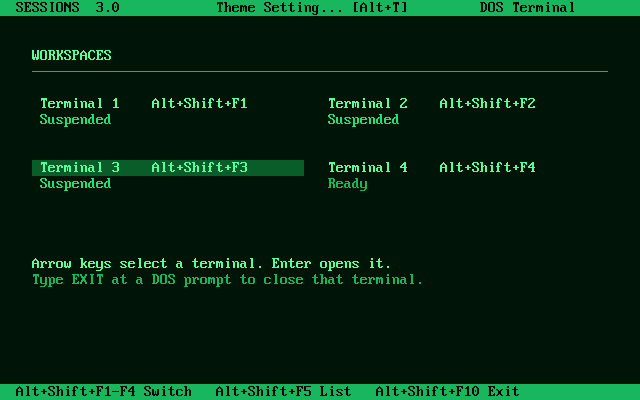
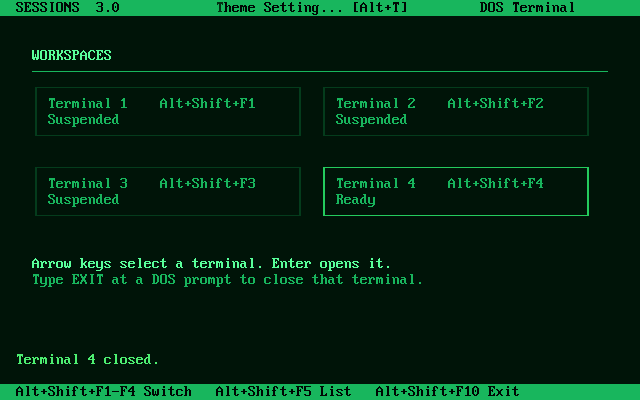
Publish SESSIONS 1.1.3

diff --git a/applications.html b/applications.html
@@ -255,12 +255,12 @@
             <h3>SESSIONS.EXE</h3>
             <p><strong>Four DOS terminals.</strong> Keep four applications open and switch between them with <kbd>Alt+Shift+F1</kbd> through <kbd>F4</kbd>. Each terminal keeps its own directory, command history, and screen. Tab completes file and directory names. Requires XMS.</p>
             <figure>
-              <a href="screenshots/sessions.png"><img src="screenshots/sessions.png" width="640" height="400" loading="lazy" alt="The SESSIONS workspace list shows three suspended programs and a fourth terminal ready to open."></a>
-              <figcaption>Pausing WRITE, DBASE, and CODE in separate DOS terminals</figcaption>
+              <a href="screenshots/sessions.png"><img src="screenshots/sessions.png" width="640" height="400" loading="lazy" alt="The Green CRT workspace list shows three suspended programs and a fourth terminal ready to open."></a>
+              <figcaption>Green CRT workspace list with WRITE, DBASE, and CODE suspended</figcaption>
             </figure>
             <div class="download">
               <a class="button" href="releases/sessions.zip" download aria-label="Download SESSIONS ZIP"><span aria-hidden="true">↓</span> Download ZIP</a>
-              <span class="file-info" data-release="sessions" data-asset="sessions-4fb820bb2bae2a11bdcc0e7eb391bded8feca04aff44447b4fbc961bd6350216.zip" data-version="1.1.2">Version 1.1.2 · 33 KiB</span>
+              <span class="file-info" data-release="sessions" data-asset="sessions-bfdbfb4ef1cad8c69b96a6464f444e987d78db7bb5af32c5930f43b4da1f9909.zip" data-version="1.1.3">Version 1.1.3 · 33 KiB</span>
               <span class="file-info" data-download-stats hidden></span>
             </div>
           </article>

diff --git a/news.md b/news.md
@@ -1,3 +1,7 @@
+## SESSIONS 1.1.3 · 28 November 2026
+
+[SESSIONS 1.1.3](applications.html#app-sessions) brings WRITE’s Green CRT document colors to all four DOS prompts and standard command output. The workspace menu uses the same dark green background and marks the selected terminal with a brighter border.
+
 ## Green CRT for COMMANDS · 28 November 2026
 
 Twelve COMMANDS applications now open in Green CRT by default. Choose another palette from **Theme Setting…** to save that preference for the app. The Applications page shows the updated theme in use, from editing a manuscript to calculating an RC filter and inspecting a disk image.
